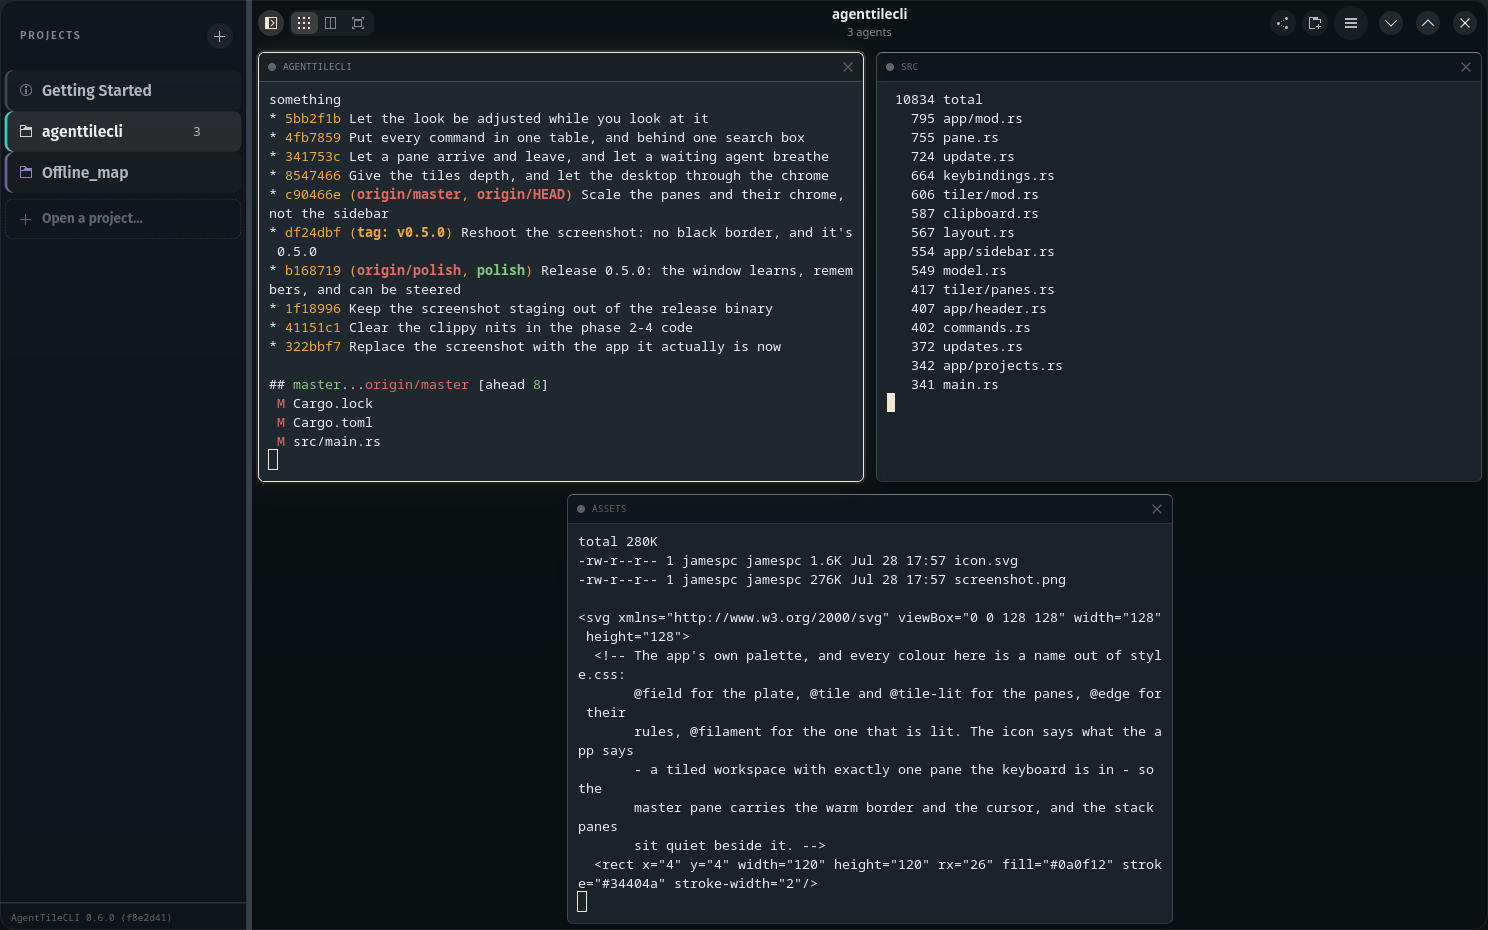
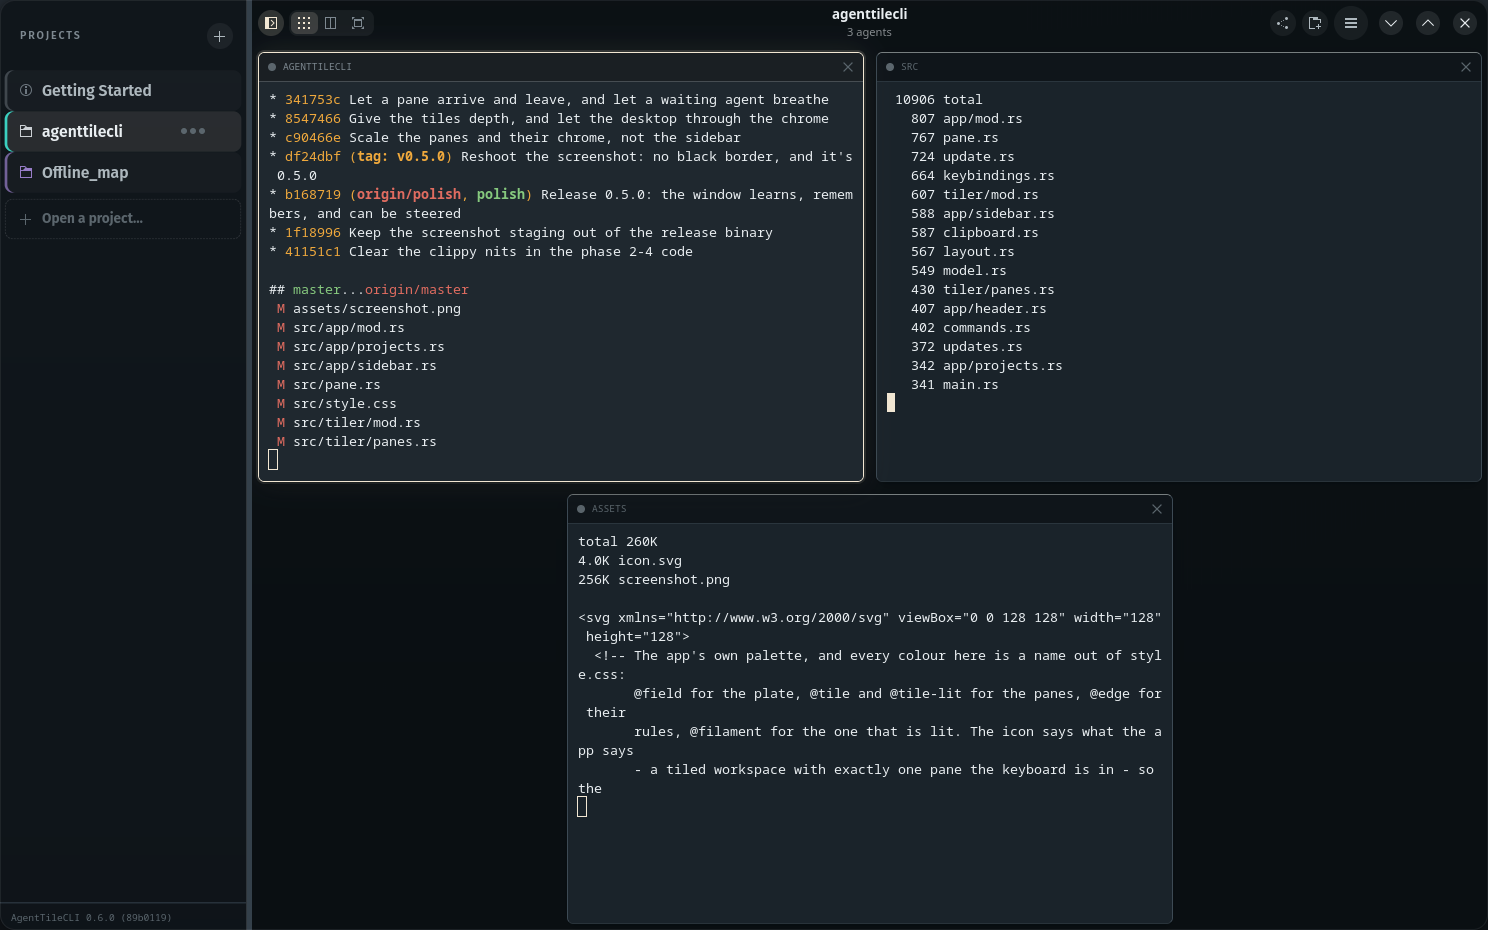
Say what the agents are doing in the rack, not just how many
A strip carried a count, which answered half the question it was there to
answer. A project running three agents that are all waiting on you and one
running three that are all working looked identical - and that is the single
distinction a rack exists to draw, because it is the one you cannot get by
looking at the panes, which are the panes of some other project.

So the number is now one dot per agent, in the state colours the pane heads
already use. Past five they stop being countable and start being a texture,
which a 170px column has no room for, so the overflow is said in a number -
the one thing a number was always better at.

Every state's colour is written once for both scales. A state whose colour
lived in two rules is a state that can end up meaning two things, which is
the bug `palette.rs` exists to prevent one level down. The tooltip shares
its sentence with the header's subtitle for the same reason.

The dots also flushed out an inconsistency in the fix before them. A pane
with no agent behind it stores `Starting` forever, and that was overridden
at the widget when its own dot was drawn - so the pane showed a plain dot
and the rack, reading the state rather than the widget, showed the hollow
"not yet heard from" ring. `Pane::state` now reports the effective state
rather than the stored one, and both scales agree.

The screenshot no longer prints a username. Its assets pane ran `ls -lh`,
whose long form puts owner and group on every line - so the README showed
[…]

diff --git a/src/style.css b/src/style.css
@@ -1029,34 +1029,10 @@ row.sidebar-row.needs-attention .sidebar-row-label {
   color: mix(@tally, @text, 0.55);
 }
 
-/* How many agents this project is running. A tally, not a badge: no pill, no
-   fill, no colour of its own - it sits in the same monospace the rest of the
-   rack is engraved in and reads as a number stamped on the strip.
-
-   It is the answer to the only question you can't ask a project you aren't
-   looking at, which is why it earns room on a row that already carries an icon,
-   a name and a close button. Quiet enough that a rack of them scans as a column
-   of numbers rather than as five things demanding attention. */
-/* Monospace, unlike the name beside it, and for the reason monospace is for:
-   these are numbers in a column and they line up. */
-.sidebar-row-count {
-  min-width: 1.2em;
-  color: @muted;
-  font-family: monospace;
-  font-size: 0.98em;
-}
-
-/* The open project's own tally lifts with the rest of its strip. */
-row.sidebar-row:selected .sidebar-row-count {
-  color: @dim;
-}
-
-/* A project calling for you says so with its number too - it is the row's one
-   piece of live information, and leaving it grey while everything around it
-   goes amber reads as a number that stopped updating. */
-row.sidebar-row.needs-attention .sidebar-row-count {
-  color: @tally;
-}
+/* Where a count used to be, there are now dots - one per agent, in the state
+   colours. See "The rack's dots" above. The count was the answer to the only
+   question you can't ask a project you aren't looking at, and it turned out to
+   be answering half of it: how many, but not what any of them was doing. */
 
 /* ── Broadcast ─────────────────────────────────────────────────────────────
    The one control in the header bar that changes what a keystroke *does* rather
@@ -1117,9 +1093,49 @@ row.sidebar-row.needs-attention .sidebar-row-count {
   box-shadow: inset 0 0 0 1px @faint;
 }
 
-.pane-status.working  { background-color: @fresh; }
-.pane-status.idle     { background-color: @faint; }
-.pane-status.exited   { background-color: @hangup; }
+/* Every state's colour is written once, for both scales at which the app draws
+   it: the dot at the head of a pane, and the row of dots on that project's
+   strip in the rack. Two selectors, one value - a state whose colour existed in
+   two rules would be a state that could end up meaning two things. */
+.pane-status.working, .rack-dot.working { background-color: @fresh; }
+.pane-status.idle,    .rack-dot.idle    { background-color: @faint; }
+.pane-status.exited,  .rack-dot.exited  { background-color: @hangup; }
+
+/* ── The rack's dots ───────────────────────────────────────────────────────
+   One per agent, where a bare count used to be. The count could say how many
+   agents a project was running and nothing about what any of them was doing,
+   so a project with three agents all waiting on you looked exactly like one
+   with three all working - which is the single distinction a rack you are not
+   looking at exists to draw.
+
+   Smaller than the pane's own dot, because these are a summary of that one and
+   a summary should not be as loud as the thing it summarises. */
+.rack-dot {
+  min-width: 0.42em;
+  min-height: 0.42em;
+  border-radius: 50%;
+  background-color: @faint;
+  transition: background-color 160ms cubic-bezier(0.2, 0, 0, 1);
+}
+
+.rack-dot.starting {
+  background-color: transparent;
+  box-shadow: inset 0 0 0 1px @faint;
+}
+
+.rack-dot.waiting {
+  background-color: @tally;
+}
+
+/* The overflow count, for a project running more agents than there is room to
+   draw. Set in the monospace the rest of the rack's numbers were, which is the
+   one job a number was always better at than a picture. */
+.rack-overflow {
+  margin-left: 0.15em;
+  color: @muted;
+  font-family: monospace;
+  font-size: 0.8em;
+}
 
 /* Waiting is the one state that is *about* you: the agent has stopped and will
    not start again until you answer it. Every other dot reports something you
@@ -1150,25 +1166,11 @@ row.sidebar-row.needs-attention .sidebar-row-count {
   animation-timing-function: ease-in-out;
 }
 
-/* The tally takes the most urgent answer in its group. A project with one agent
-   waiting on you and three working is a project you need to go to, and the
-   number alone cannot say so.
-
-   Both selectors, and the `:selected` one is not redundant. The open project's
-   tally is set by `row.sidebar-row:selected .sidebar-row-count`, which carries
-   one more class than a bare `.sidebar-row-count.tally-waiting` does and would
-   therefore win on specificity alone - leaving the tally grey on exactly one
-   row in the rack: the project you currently have open, which is also the one
-   whose agents you are most likely to be watching. */
-row.sidebar-row .sidebar-row-count.tally-working,
-row.sidebar-row:selected .sidebar-row-count.tally-working {
-  color: @fresh;
-}
-
-row.sidebar-row .sidebar-row-count.tally-waiting,
-row.sidebar-row:selected .sidebar-row-count.tally-waiting {
-  color: @tally;
-}
+/* The tally used to collapse a group to its single most urgent state, because a
+   number can only be one colour - "one waiting, three working" had to pick. The
+   dots don't have to: each one carries its own agent's state, so the row shows
+   the whole group at once and the specificity dance this rule used to need
+   (the open project's count out-ranking its own status colour) goes with it. */
 
 /* ── Drop targets ──────────────────────────────────────────────────────────
    Where a dragged project would land if it were dropped right now. Each strip

diff --git a/src/app/sidebar.rs b/src/app/sidebar.rs
@@ -295,12 +295,15 @@ impl App {
     /// would have had to remember to touch both. The store is the only place a
     /// project's name, hue and icon are written, so it is the only place they
     /// are read.
-    pub(super) fn build_row(&self, id: ProjectId) -> (gtk4::ListBoxRow, gtk4::Label) {
+    pub(super) fn build_row(&self, id: ProjectId) -> (gtk4::ListBoxRow, gtk4::Box) {
         let store = self.0.store.borrow();
         let Some(project) = store.get(id) else {
             // Unreachable: the caller adds the project before building its row.
             // A blank row beats a panic in a UI callback either way.
-            return (gtk4::ListBoxRow::new(), gtk4::Label::new(None));
+            return (
+                gtk4::ListBoxRow::new(),
+                gtk4::Box::new(gtk4::Orientation::Horizontal, 0),
+            );
         };
         let name = project.name.clone();
         let hue = project.hue.clone();
@@ -323,9 +326,18 @@ impl App {
         // rather than "0": a project with nothing running is what the empty
         // state already says at length the moment you open it, and a column of
         // zeroes is noise on every other row to say it again.
-        let count = gtk4::Label::builder()
+        // One dot per agent, in the colours the pane heads already use. This
+        // replaced a bare count, which could say how many agents a project was
+        // running and nothing about what any of them was doing - so a project
+        // with three agents all waiting on you and a project with three all
+        // working looked identical, which is the one distinction a rack you are
+        // not looking at exists to draw.
+        let agents = gtk4::Box::builder()
+            .orientation(gtk4::Orientation::Horizontal)
+            .spacing(3)
             .halign(gtk4::Align::End)
-            .css_classes(["sidebar-row-count"])
+            .valign(gtk4::Align::Center)
+            .css_classes(["sidebar-row-agents"])
             .build();
 
         let close = gtk4::Button::builder()
@@ -343,7 +355,7 @@ impl App {
             .build();
         content.append(&row_icon);
         content.append(&label);
-        content.append(&count);
+        content.append(&agents);
         content.append(&close);
 
         let row = gtk4::ListBoxRow::builder().child(&content).build();
@@ -354,7 +366,7 @@ impl App {
             "{name}\nDrag to reorder (or Super+Alt+Shift+[ / ])"
         )));
         self.install_reorder(&row, id);
-        (row, count)
+        (row, agents)
     }
 
     /// Makes `row` draggable onto its neighbours, so the sidebar's project order
@@ -492,18 +504,40 @@ impl App {
         let Some(view) = views.iter().find(|v| v.id == id) else {
             return;
         };
-        let tally = view.tiler.agent_tally();
-        view.count.set_label(&if tally.total() == 0 {
-            String::new()
-        } else {
-            tally.total().to_string()
-        });
-        set_class(&view.count, "tally-waiting", tally.waiting > 0);
-        set_class(
-            &view.count,
-            "tally-working",
-            tally.waiting == 0 && tally.working > 0,
-        );
+        let states = view.tiler.agent_states();
+
+        while let Some(child) = view.agents.first_child() {
+            view.agents.remove(&child);
+        }
+
+        // Past a handful, dots stop being countable and start being a texture -
+        // and a rack 170px wide has no room for a texture. The overflow is said
+        // in a number instead, which is the one thing a number was always good
+        // at.
+        const MAX_DOTS: usize = 5;
+        let shown = states.len().min(MAX_DOTS);
+        for state in &states[..shown] {
+            let dot = gtk4::Box::builder()
+                .css_classes(["rack-dot", crate::pane::status_class(state)])
+                .valign(gtk4::Align::Center)
+                .build();
+            view.agents.append(&dot);
+        }
+        if states.len() > shown {
+            view.agents.append(
+                &gtk4::Label::builder()
+                    .label(format!("+{}", states.len() - shown))
+                    .css_classes(["rack-overflow"])
+                    .valign(gtk4::Align::Center)
+                    .build(),
+            );
+        }
+
+        // The dots say it at a glance and the tooltip says it in words, which is
+        // the same pairing the pane's own dot uses.
+        let words = self.agent_words(&view.tiler.agent_tally());
+        view.agents
+            .set_tooltip_text((!states.is_empty()).then_some(words.as_str()));
 
         // The header's subtitle falls back to this same tally when no agent has
         // a title to show, so a change here can be a change up there. Only for

diff --git a/src/app/mod.rs b/src/app/mod.rs
@@ -129,9 +129,12 @@ const SCREENSHOT_COMMANDS: [(&str, &str); 3] = [
         "src",
         "wc -l *.rs */*.rs | sort -rn | head -16; sleep 600",
     ),
+    // `ls -1sh` rather than `ls -lh`: the long form prints owner and group on
+    // every line, which puts whoever took the screenshot into the README. Size
+    // and name are the only columns the picture wanted anyway.
     (
         "assets",
-        "ls -lh; echo; head -8 icon.svg; sleep 600",
+        "ls -1sh; echo; head -5 icon.svg; sleep 600",
     ),
 ];
 
@@ -142,8 +145,9 @@ struct ProjectView {
     id: ProjectId,
     tiler: Tiler,
     row: gtk4::ListBoxRow,
-    /// How many agents this project is running, shown on its sidebar row.
-    count: gtk4::Label,
+    /// One dot per agent this project is running, coloured by what each is
+    /// doing - see `refresh_row_tally`.
+    agents: gtk4::Box,
     /// Switches between the tiler and the empty state. A project with no panes
     /// used to be impossible (the app opened straight into a help pane), and
     /// now it's the *first* thing a new user sees - so it has to say what to do
@@ -641,12 +645,20 @@ impl App {
         self.0.title.set_subtitle(&self.agent_summary());
     }
 
-    /// "3 agents \u{b7} 1 waiting for you", or as much of it as is true.
+    /// The active project's agents, in words.
     fn agent_summary(&self) -> String {
-        let Some(tiler) = self.active_tiler() else {
-            return String::new();
-        };
-        let tally = tiler.agent_tally();
+        match self.active_tiler() {
+            Some(tiler) => self.agent_words(&tiler.agent_tally()),
+            None => String::new(),
+        }
+    }
+
+    /// "3 agents \u{b7} 1 waiting for you", or as much of it as is true.
+    ///
+    /// One function for two readers - the header's subtitle and the tooltip on
+    /// a rack row's dots - because they are the same sentence about the same
+    /// fact at two scales, and two copies of a sentence drift.
+    pub(super) fn agent_words(&self, tally: &crate::tiler::Tally) -> String {
         let total = tally.total();
         if total == 0 {
             return "no agents running".to_string();

diff --git a/src/pane.rs b/src/pane.rs
@@ -61,7 +61,10 @@ const STATUS_CLASSES: [&str; 5] = [
     "starting", "working", "idle", "waiting", "exited",
 ];
 
-fn status_class(state: &PaneState) -> &'static str {
+/// The dot's class for a state. `pub(crate)` because the rack draws the same
+/// dots for the same states - see `App::refresh_row_tally`. One function so the
+/// two scales cannot disagree about which colour means what.
+pub(crate) fn status_class(state: &PaneState) -> &'static str {
     match state {
         PaneState::Starting => "starting",
         PaneState::Working { .. } => "working",
@@ -671,6 +674,15 @@ impl Pane {
     /// Repaints the terminal in the focused or unfocused surface, to match the
     /// What this pane's agent is doing.
     pub fn state(&self) -> PaneState {
+        // A pane with no agent behind it has no state to report and never will,
+        // so its stored `Starting` is not a state - it is the absence of one,
+        // and it would otherwise be drawn as the hollow "not yet heard from"
+        // dot forever, in the rack as well as on the pane. `Idle` is what the
+        // palette already has for "a thing that is simply there", which is
+        // exactly what a command running in a terminal is.
+        if !self.head.reports {
+            return PaneState::Idle;
+        }
         self.head.state.borrow().clone()
     }
 

diff --git a/src/tiler/panes.rs b/src/tiler/panes.rs
@@ -86,6 +86,19 @@ impl Tiler {
     }
 
     /// How many of this group's panes are in each state worth counting.
+    /// What each of this group's agents is doing, in pane order.
+    ///
+    /// The ordered form of `agent_tally`, for the rack: a tally can say "one of
+    /// them wants you" and a list can say which, and where in the group it is.
+    pub fn agent_states(&self) -> Vec<PaneState> {
+        self.imp()
+            .panes
+            .borrow()
+            .iter()
+            .map(|pane| pane.state())
+            .collect()
+    }
+
     pub fn agent_tally(&self) -> Tally {
         let mut tally = Tally::default();
         for pane in self.imp().panes.borrow().iter() {

diff --git a/src/app/projects.rs b/src/app/projects.rs
@@ -128,12 +128,12 @@ impl App {
             App(inner).schedule_save();
         });
 
-        let (row, count) = self.build_row(id);
+        let (row, agents) = self.build_row(id);
         self.0.views.borrow_mut().push(ProjectView {
             id,
             tiler: tiler.clone(),
             row: row.clone(),
-            count,
+            agents,
             view: project_view,
         });
         self.0.list.append(&row);

diff --git a/src/tiler/mod.rs b/src/tiler/mod.rs
@@ -12,6 +12,7 @@ mod panes;
 mod resize;
 
 pub(crate) use manager::{GridDragState, Handle, TilerLayout};
+pub(crate) use panes::Tally;
 
 use crate::layout::Mode;
 use crate::pane::Pane;
